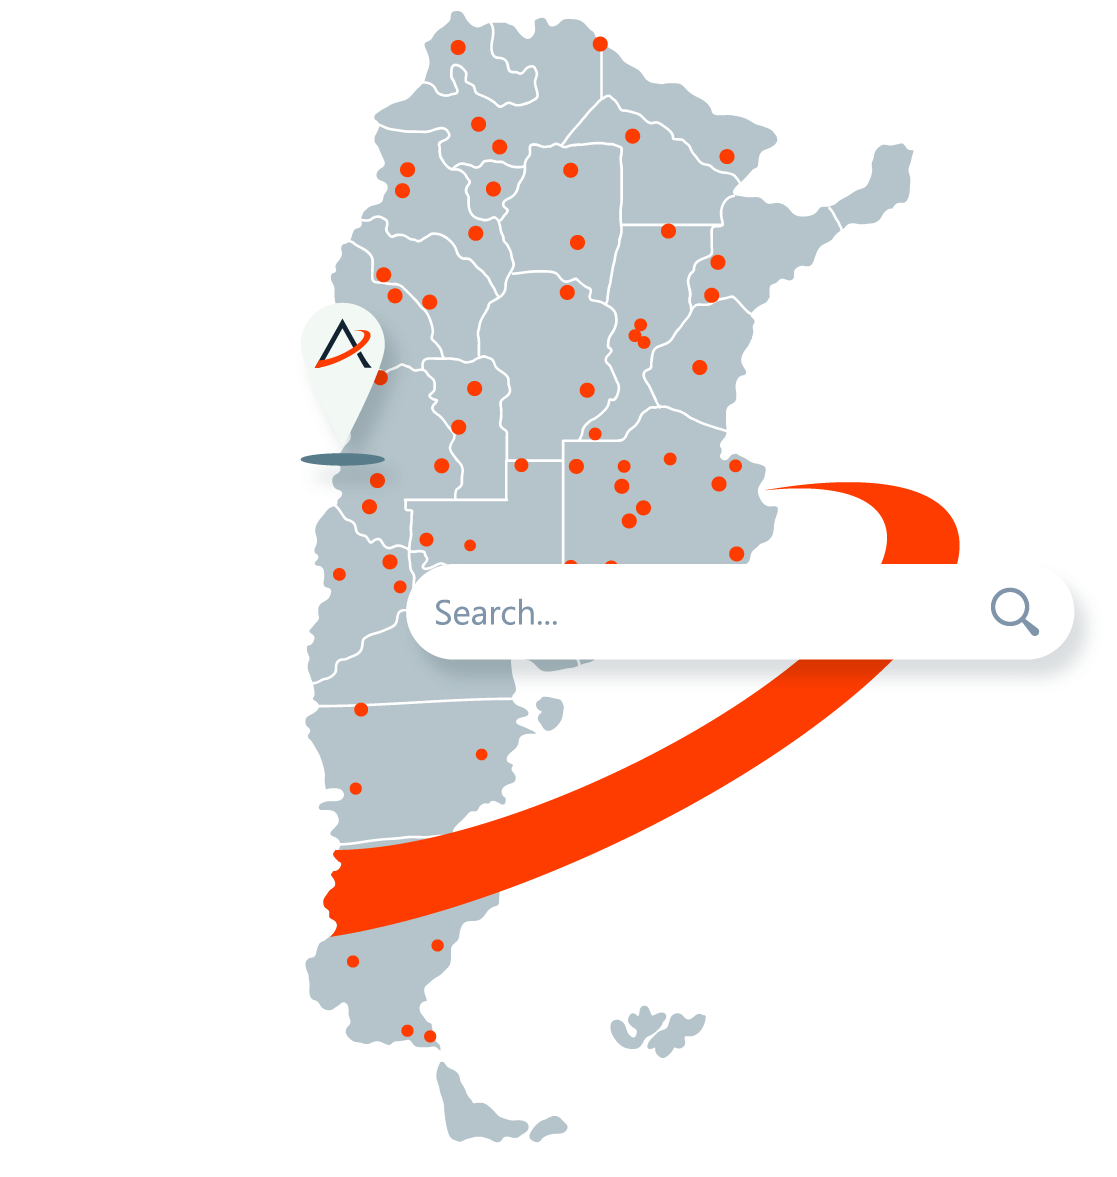
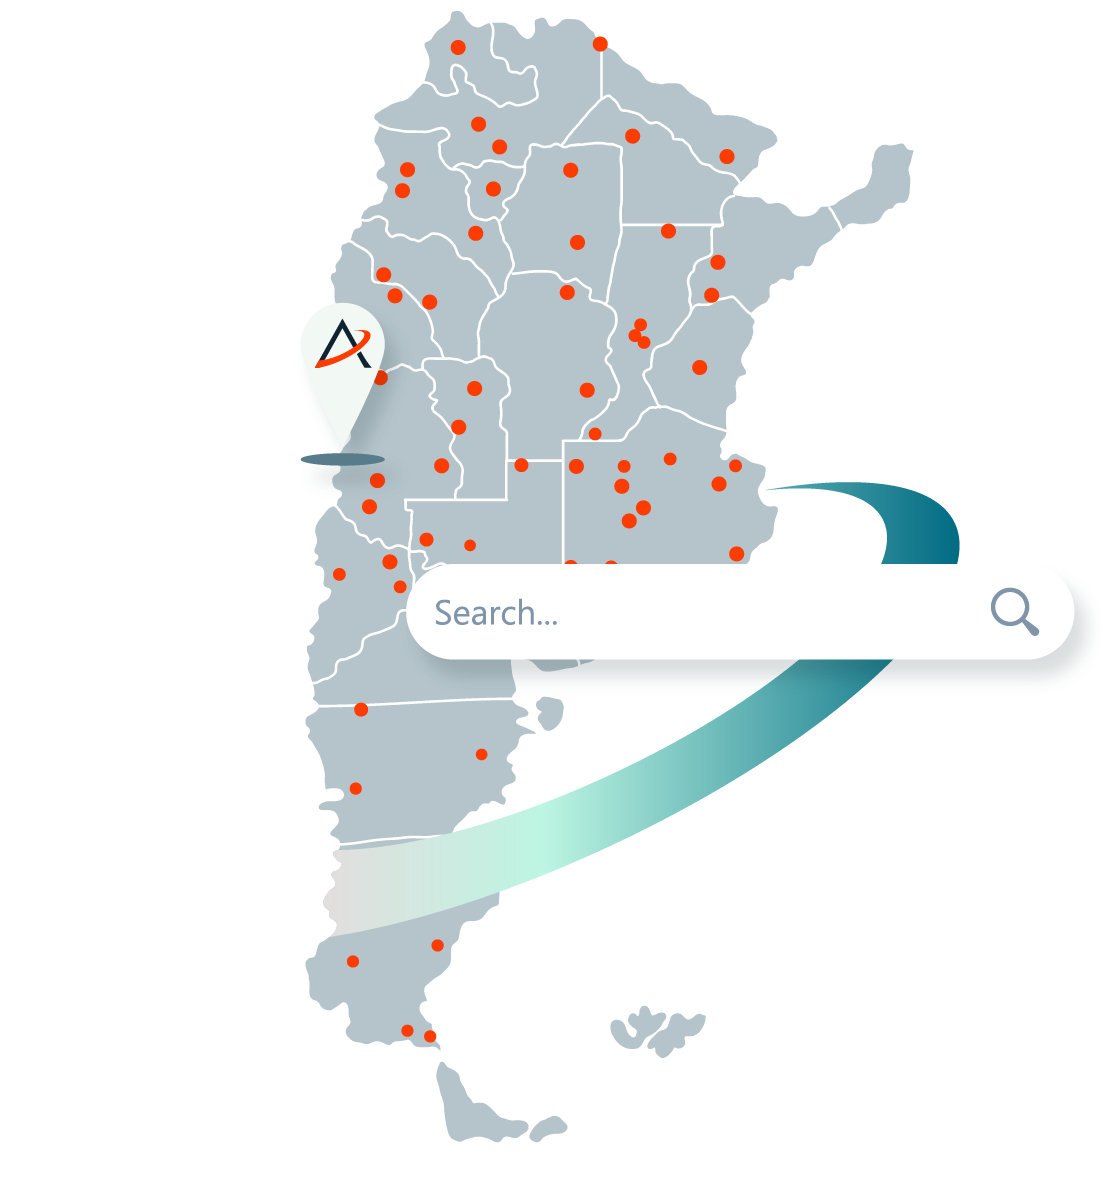
.

Changed region(s): [[0.2739, 0.5506, 0.7914, 0.7952], [0.7001, 0.3976, 0.8827, 0.4894]]

diff --git a/index.html b/index.html
@@ -355,14 +355,14 @@
 
           <div class="col-lg-6 d-flex flex-column justify-content-center" data-aos="fade-up" data-aos-delay="200">
             <div class="content">
-              <h3>Sobre Nosotros</h3>
-              <h2>Bienvenido a Almacenit.</h2>
+              <h3>Siempre cerca</h3>
+              <h2>Centros Almacenit en toda Argentina</h2>
               <p>
-                En Almacenit, nos dedicamos a mejorar tu bienestar físico y mental. Nuestro centro ofrece un espacio holístico con instalaciones de vanguardia y un equipo de profesionales en más de 15 especialidades. Nos apasiona ayudarte a alcanzar tus metas de salud y bienestar a través de coaching personalizado, rehabilitación, nutrición, y entrenamiento integral.
+                Nuestros centros están distribuidos estratégicamente para estar siempre cerca de ti.
               </p>
               <div class="text-center text-lg-start">
                 <a href="#" class="btn-read-more d-inline-flex align-items-center justify-content-center align-self-center">
-                  <span>Ver más</span>
+                  <span>Conocé las instalaciones</span>
                   <i class="bi bi-arrow-right"></i>
                 </a>
               </div>
@@ -376,7 +376,7 @@
         </div>
       </div>
 
-    </section> <!--/About Section -->
+    </section> <!--/Map Section -->
 
     <!-- Features Section -->
     <section id="features" class="features section">

diff --git a/assets/css/main.css b/assets/css/main.css
@@ -1085,7 +1085,7 @@ section,
   background: url(../img/stone-bg.png);
   background-position: center; 
   background-repeat: no-repeat;
-  background-size: auto 100%;
+  background-size: cover;
  }
 
 .quiz .center-box {
@@ -1145,7 +1145,7 @@ section,
   }
 }
 
-@media (≥576px){
+@media (max-width: 576px){
   .quiz-background {
   background: url(../img/stone-mobile-bg.png);
   background-position: center; 
@@ -1269,15 +1269,13 @@ section,
 }
 
 .map .content {
-  background-color: color-mix(in srgb, var(--maru-bg-about), transparent 25%);
   padding: 40px;
-  border-radius: 64px 0px 64px 0px;
 }
 
 .map .content h3 {
   font-size: 14px;
   font-weight: 700;
-  color: var(--accent-color);
+  color: white;
   text-transform: uppercase;
 }
 
